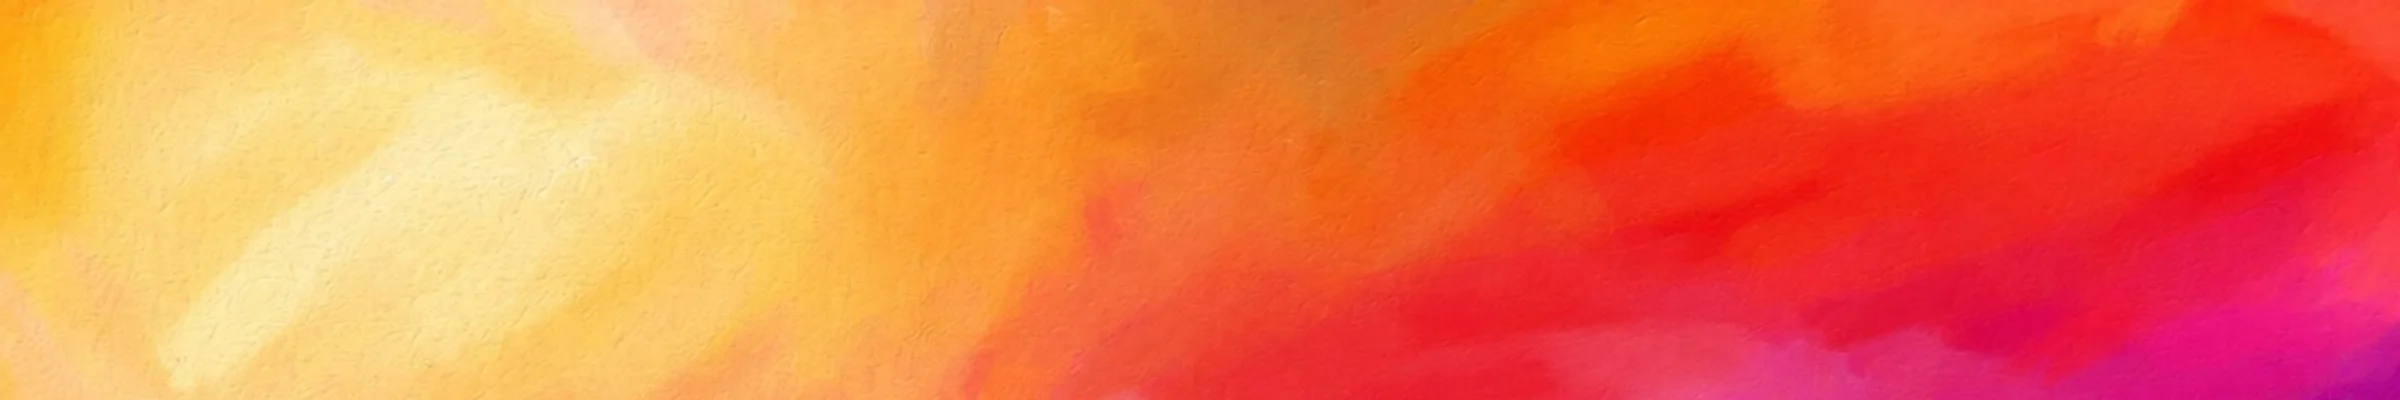
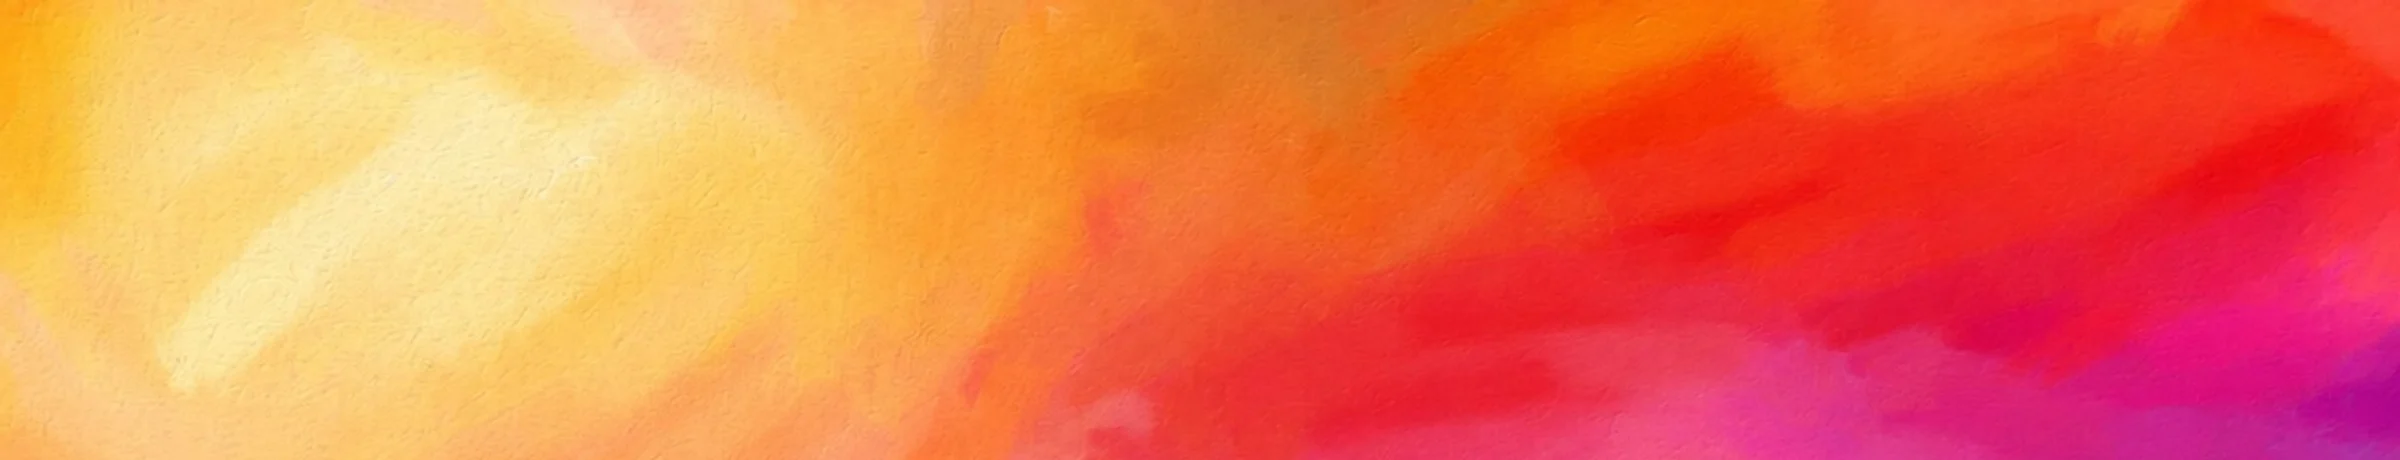
style(me): 封面加高到 224px、头像放大到 128px，对齐参考站比例
- 封面 176 → 224（桌面）、128 → 144（移动），比例从 6.6:1 收到 5.2:1，
  不再是一条细长横带
- 头像 112 → 128，压边 56 → 64；移动 80 → 96，压边 48
- 封面图按新比例从原图上部重新裁切（2400x460，保留更多黄色区，48KB）
- 空状态叠卡插画的对比度提升：后卡改 bg-muted 实色、前卡加深投影

diff --git a/src/app/(user)/me/page.tsx b/src/app/(user)/me/page.tsx
@@ -168,8 +168,8 @@ export default function MyCreatorPage() {
             <div className="mx-auto w-full max-w-[1280px] px-3 pb-12 sm:px-6 sm:pb-16 lg:px-8">
                 <section className="relative min-w-0 pb-5 pt-4 sm:pb-6 sm:pt-6" aria-labelledby="my-profile-name">
                     {/* 封面横幅：用户资料暂无封面上传能力，先用生成的等高线底图占位 */}
-                    <div className="relative h-32 overflow-hidden rounded-xl ring-1 ring-black/5 ring-inset sm:h-44 sm:rounded-2xl dark:ring-white/10">
-                        <img src="/profile-cover.webp" alt="" aria-hidden="true" width={2400} height={400} className="absolute inset-0 size-full object-cover object-[22%_center] sm:object-center" />
+                    <div className="relative h-36 overflow-hidden rounded-xl ring-1 ring-black/5 ring-inset sm:h-56 sm:rounded-2xl dark:ring-white/10">
+                        <img src="/profile-cover.webp" alt="" aria-hidden="true" width={2400} height={460} className="absolute inset-0 size-full object-cover object-[22%_center] sm:object-center" />
                         <span
                             aria-hidden="true"
                             className="absolute inset-0 bg-[linear-gradient(180deg,rgba(26,9,3,0.04)_0%,rgba(26,9,3,0.02)_55%,rgba(26,9,3,0.16)_100%)]"
@@ -178,7 +178,7 @@ export default function MyCreatorPage() {
 
                     <div className="px-2 sm:px-4">
                         <span
-                            className="relative z-10 -mt-9 grid size-20 place-items-center overflow-hidden rounded-full bg-[linear-gradient(135deg,#f6b181_0%,#e2671f_100%)] text-2xl font-semibold text-white shadow-[0_10px_28px_-6px_rgba(70,26,8,0.45)] ring-4 ring-background sm:-mt-14 sm:size-28 sm:text-3xl"
+                            className="relative z-10 -mt-12 grid size-24 place-items-center overflow-hidden rounded-full bg-[linear-gradient(135deg,#f6b181_0%,#e2671f_100%)] text-2xl font-semibold text-white shadow-[0_10px_28px_-6px_rgba(70,26,8,0.45)] ring-4 ring-background sm:-mt-16 sm:size-32 sm:text-4xl"
                             aria-hidden="true"
                         >
                             {avatarUrl ? <img src={avatarUrl} alt="" className="size-full object-cover" /> : userAvatarInitial(profileDisplayName)}
@@ -413,8 +413,8 @@ function WorkCollection({
             <div className="flex min-h-[26rem] flex-col items-center justify-center gap-6 px-4 py-14 text-center sm:min-h-[30rem]">
                 {/* 叠放的作品卡插画：纯 CSS 拼出来，避免为一个空态引入图片资源 */}
                 <div className="relative h-24 w-36" aria-hidden="true">
-                    <span className="absolute right-0 top-0 h-18 w-32 rounded-xl border border-border/60 bg-muted/60" />
-                    <span className="absolute bottom-0 left-0 grid h-18 w-32 place-items-center rounded-xl border border-border bg-card shadow-[0_10px_24px_-10px_rgba(15,23,42,0.28)]">
+                    <span className="absolute right-0 top-0 h-18 w-32 rounded-xl border border-border bg-muted" />
+                    <span className="absolute bottom-0 left-0 grid h-18 w-32 place-items-center rounded-xl border border-border bg-card shadow-[0_14px_28px_-10px_rgba(15,23,42,0.35)]">
                         <ImageIcon className="size-6 text-muted-foreground/40" />
                     </span>
                 </div>
